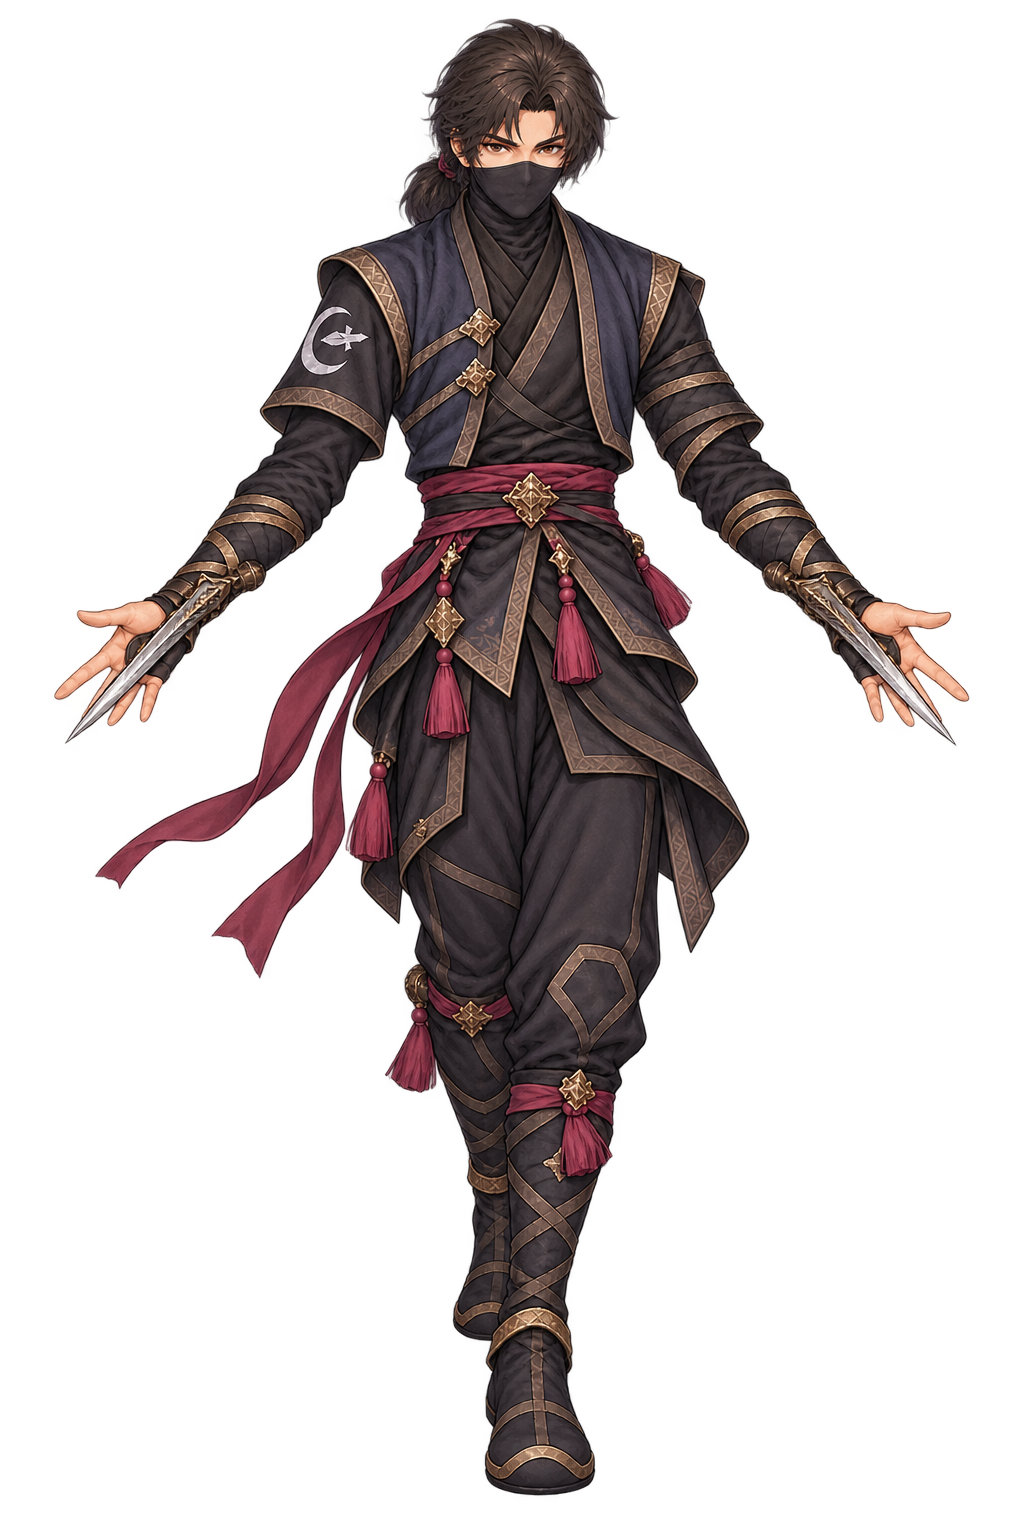
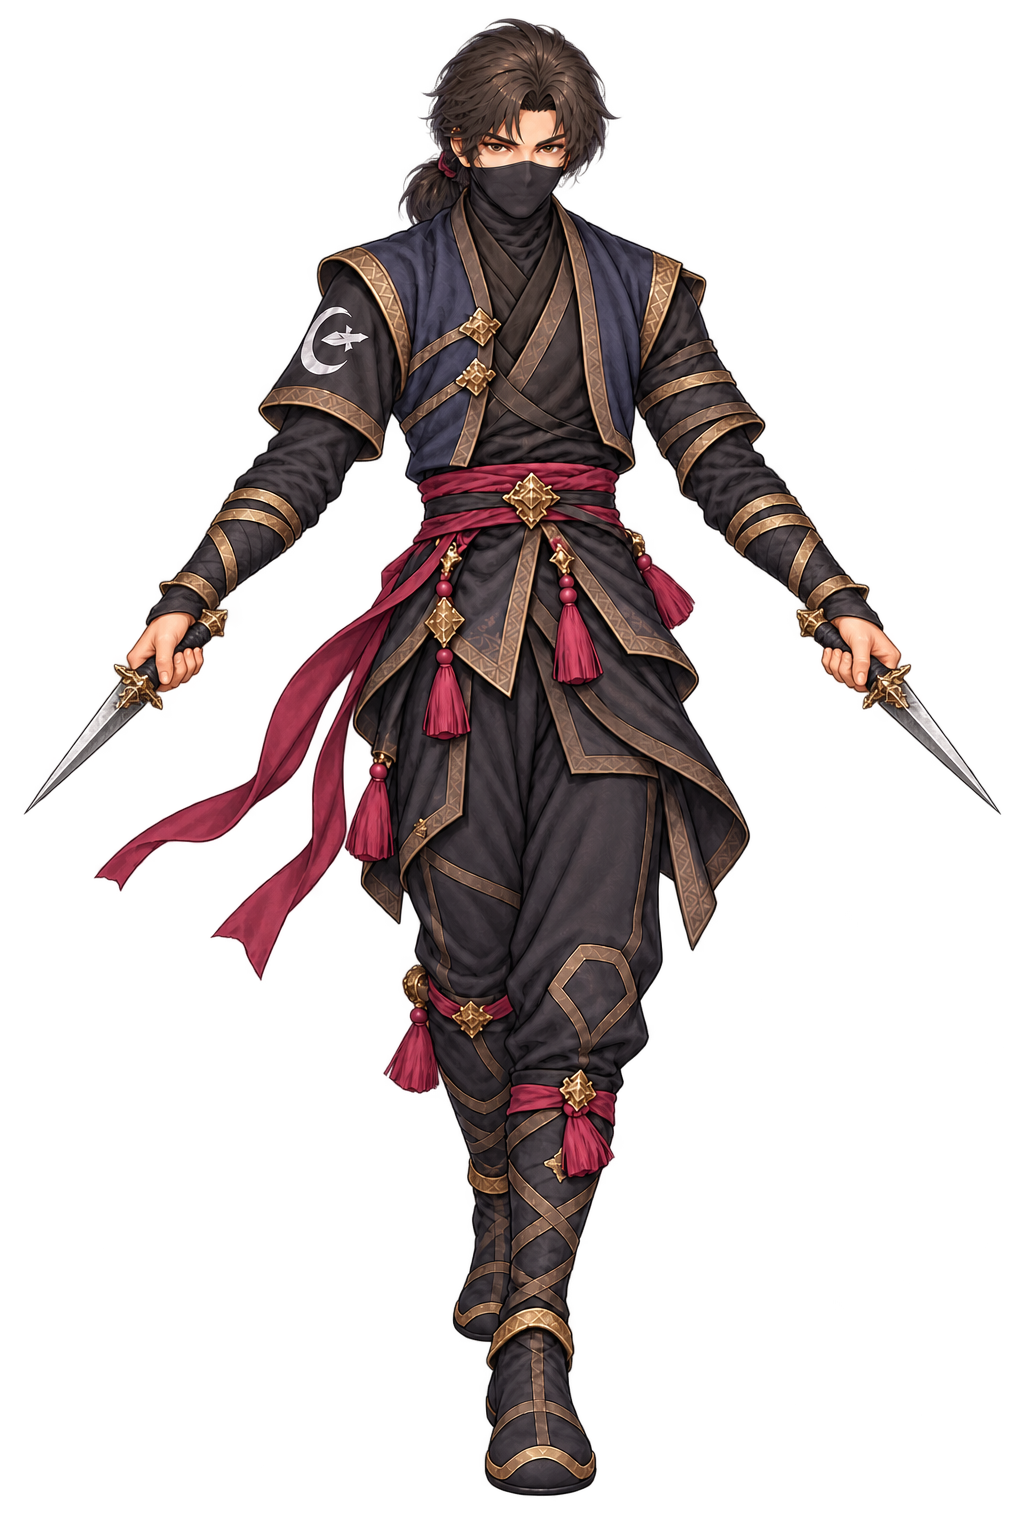
art: give male assassin hand-held downward daggers
Constraint: Preserve established pose and costume.

Confidence: high

diff --git a/docs/wardrobe.html b/docs/wardrobe.html
@@ -106,11 +106,11 @@
   document.querySelectorAll('[data-description]').forEach(button=>button.addEventListener('click',()=>{descriptionGender=button.dataset.description;choose(entries.find(entry=>entry.id===selectedId),false);}));
   async function load() {
     try {
-      const response=await fetch('assets/outfits-v5/manifest.json?v=20261027-murong-feet', {cache:'no-store'}); if(!response.ok)throw new Error('manifest');
+      const response=await fetch('assets/outfits-v5/manifest.json?v=20261027-assassin-grip', {cache:'no-store'}); if(!response.ok)throw new Error('manifest');
       const male=await response.json();
       const valid=e=>e&&typeof e.id==='string'&&typeof e.name==='string'&&typeof e.file==='string'&&/^[a-z0-9_-]+\.png$/i.test(e.file);
       entries=(male.entries||[]).filter(valid); if(!entries.length)throw new Error('empty');
-      let female={entries:[]}; try {const result=await fetch('assets/outfits-female-v1/manifest.json?v=20261027-murong-feet', {cache:'no-store'});if(result.ok)female=await result.json();}catch {}
+      let female={entries:[]}; try {const result=await fetch('assets/outfits-female-v1/manifest.json?v=20261027-assassin-grip', {cache:'no-store'});if(result.ok)female=await result.json();}catch {}
       const pending=(female.entries||[]).filter(valid);
       femaleEntries=new Map(pending.map(entry=>[entry.id,{...entry,ready:entry.status!=='pending'}]));
       $('completion').textContent='백의 + '+(entries.length-1)+'세력 · 남녀 의상';
